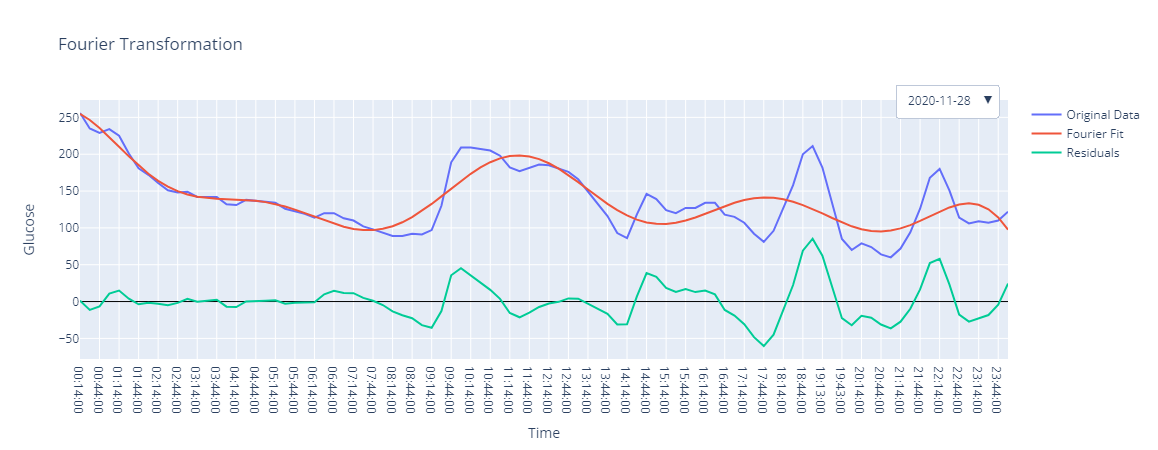
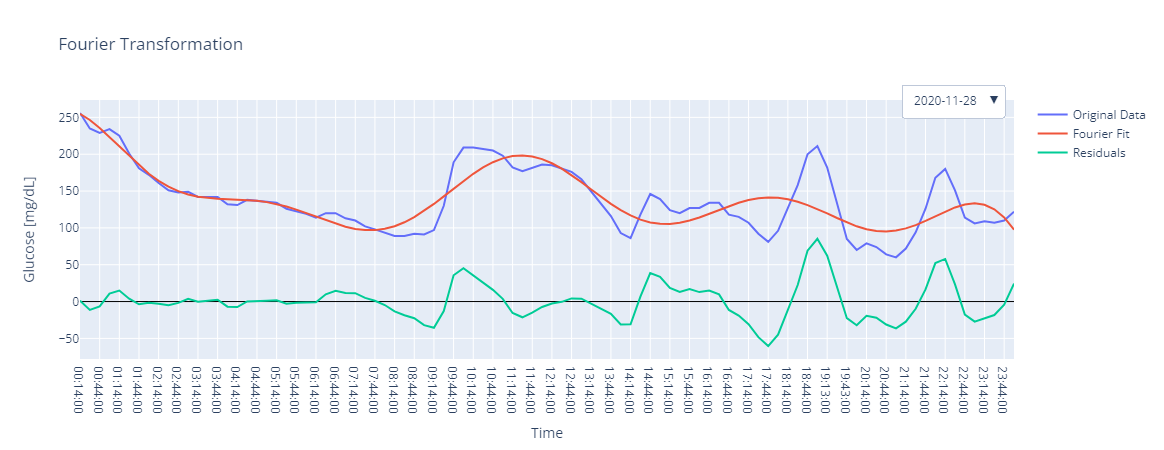
Update plot imgs

diff --git a/glucopy/plot/trace/tir.py b/glucopy/plot/trace/tir.py
@@ -177,11 +177,11 @@ def tir(gf: Gframe,
     # update layout
     fig.update_layout(
         xaxis_title='Time of day [h]',
-        yaxis_title=f'CGM [{gf.unit}]',
+        yaxis_title=f'Glucose [{gf.unit}]',
         yaxis=dict(range=[0, gf.data['CGM'].max()+10]),  # Set y-axis to start at 0 and end at the max value
         height=height,
         width=width,
-        title_text='CGM values for each day',
+        title_text='Glucose values in range for each day',
         shapes=shapes[first_day]
     )
 

diff --git a/glucopy/plot/trace/mean.py b/glucopy/plot/trace/mean.py
@@ -191,7 +191,7 @@ def mean(gf: Gframe,
     # update lauyout
     fig.update_layout(title_text='Mean and standard deviation for each time',
                       xaxis_title='Time of day [h]', 
-                      yaxis_title=f'CGM [{gf.unit}]',
+                      yaxis_title=f'Glucose [{gf.unit}]',
                       height=height,
                       width=width)
 

diff --git a/glucopy/plot/trace/mage.py b/glucopy/plot/trace/mage.py
@@ -144,7 +144,7 @@ def mage(gf: Gframe,
     # update layout
     fig.update_layout(
         xaxis_title='Time of day [h]',
-        yaxis_title=f'CGM [{gf.unit}]',
+        yaxis_title=f'Glucose [{gf.unit}]',
         yaxis=dict(range=[0, gf.data['CGM'].max()+10]),  # Set y-axis to start at 0 and end at the max value
         height=height,
         width=width,

diff --git a/glucopy/plot/box.py b/glucopy/plot/box.py
@@ -94,7 +94,7 @@ def box(gf: Gframe,
 
     else:
         fig = px.box(gf.data, x='CGM', points=points)
-        fig.update_xaxes(title='Glucose')
+        fig.update_xaxes(title=f'Glucose [{gf.unit}]')
 
     fig.update_layout(height=height, width=width)
 
